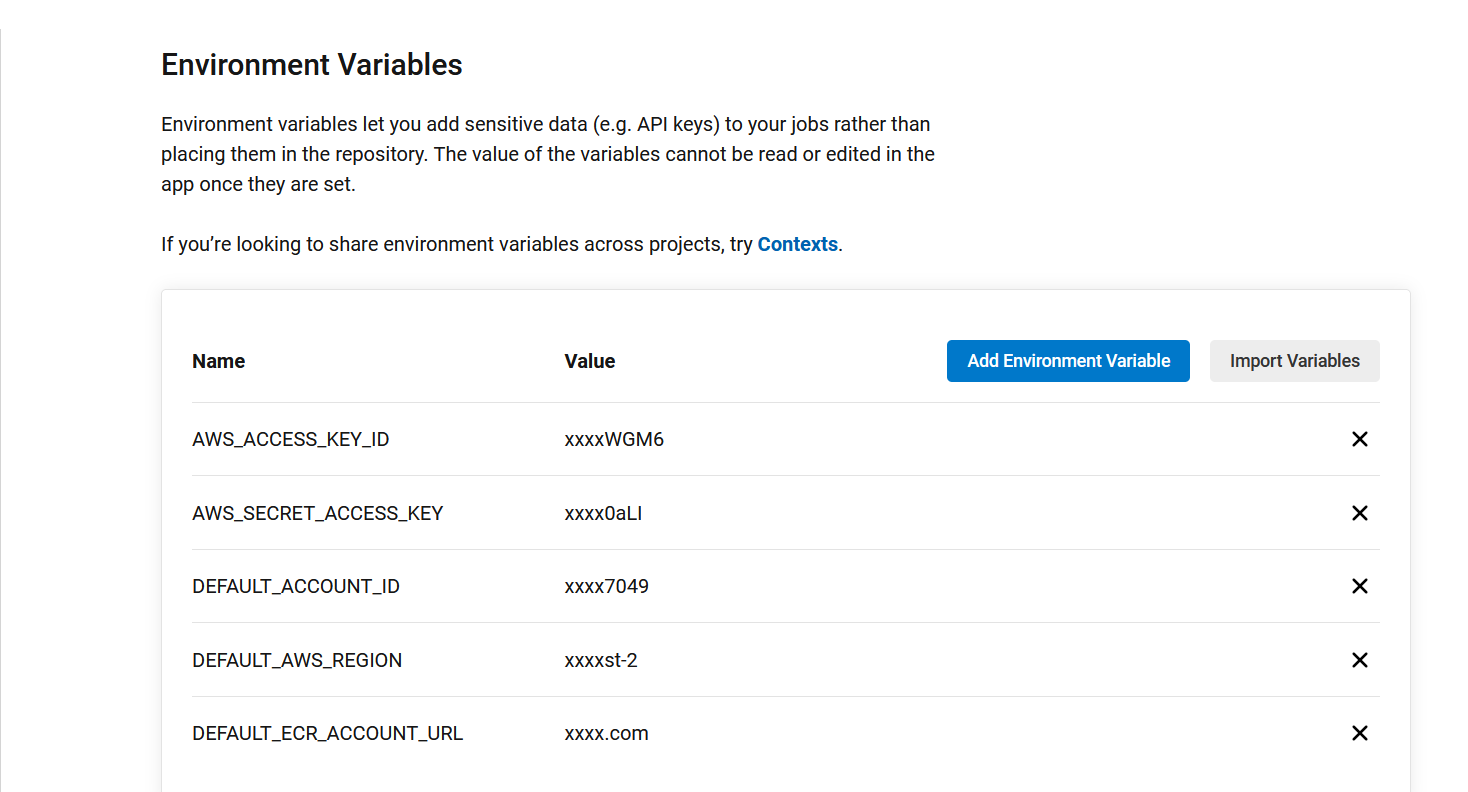
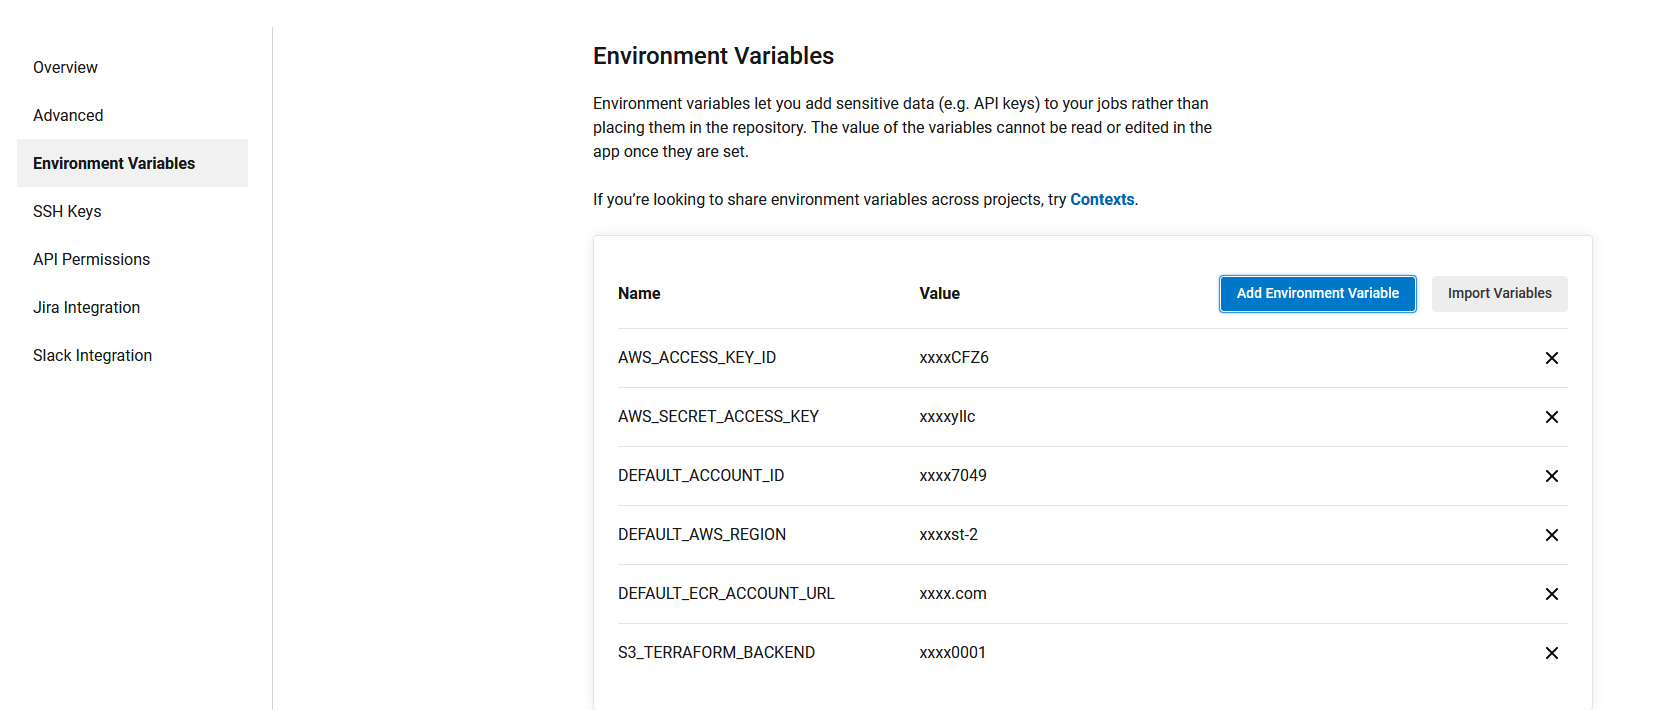
add S3 env variable

diff --git a/README.md b/README.md
@@ -109,6 +109,7 @@ This is what you need to initialize to set your pipeline on CircleCI.
     ``` 
 
 * AWS Account
+* CircleCI Account
 * AWS Client
 
     Windows
@@ -158,8 +159,13 @@ This is what you need to initialize to set your pipeline on CircleCI.
     account_id = "xxxxxxxxxx"
     aws_region = "xx-xxxx-2"
     s3_terraform_state = "circle-ci-backend-xxxxxxxxxxxx"
-
     ```
+6. Open your CircleCI account and import the ``config.yml`` from the folder ``.circleci``. This file is our pipeline on CircleCI, the one that it is going to be on charge of creating all of our resources.
+7. As soon as you finish to import the CircleCI pipeline, go to ``Project Settings`` and go to the section ``Environment Variables``. On this section, we need to configure the ones that we have on the image below. The value that we need to put are the ones obtained on the step 5
+
+<a href="https://github.com/Pakoke/learn-terraform-circleci">
+    <img src="images/circleci_project_settings.png" alt="project_settings" width="1000" height="500">
+</a>
 
 <!-- USAGE EXAMPLES -->
 ## Usage
